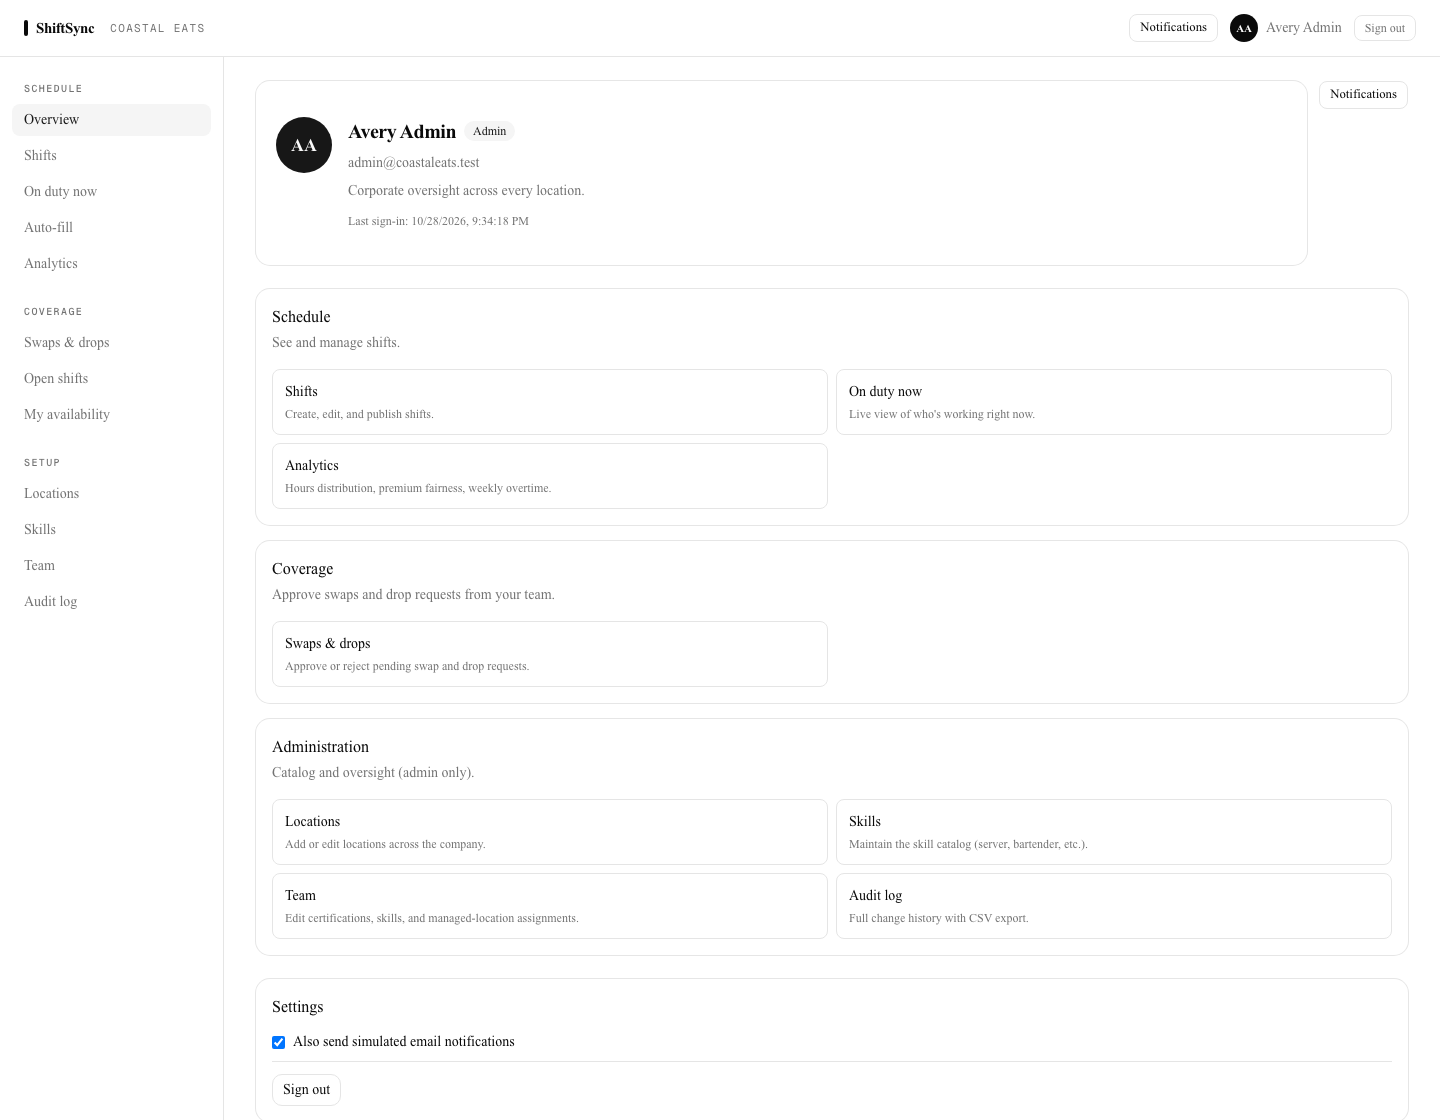
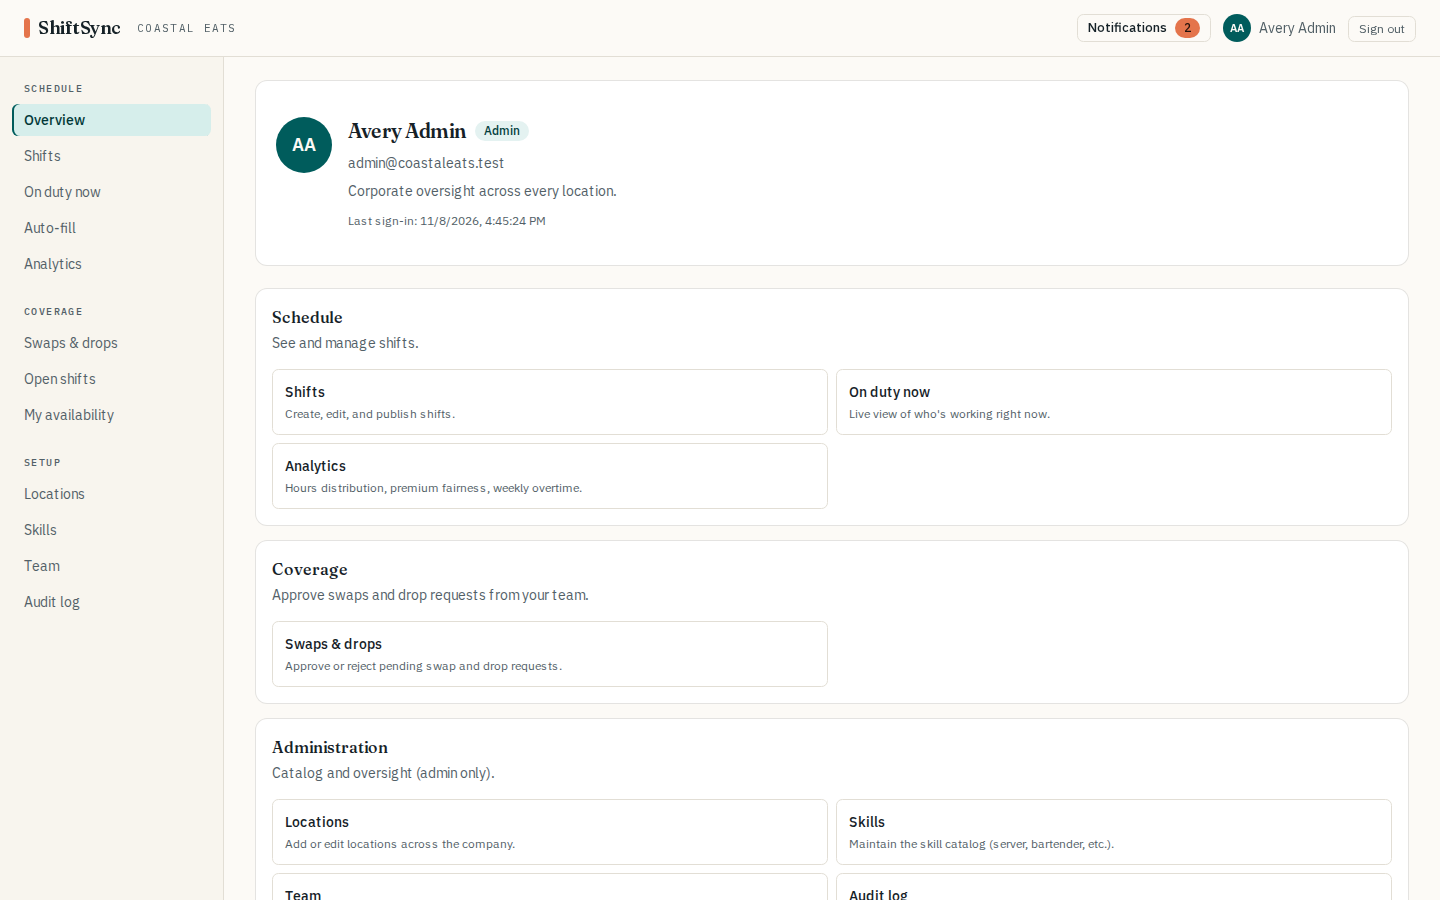
Rewrite the README around the mock API and refresh screenshots
- Documents the offline path (npm run mock-api + dev server), the
  container build, and the unit and browser test commands with counts.
- Drops claims that no longer held: "No end-to-end tests" beside an
  e2e section, and React Hook Form, which the app never used.
- Notes the ?next= guard, phone navigation and location-timezone
  display among the design choices.
- All nine screenshots are recaptured from the mock's fictional data
  at 1440x900 and 390x844 by e2e/mocked/screenshots.spec.ts. The old
  set rendered in a fallback serif and ran to 880 KB.
- Adds `npm run mock-api`.

diff --git a/e2e/mocked/screenshots.spec.ts b/e2e/mocked/screenshots.spec.ts
@@ -1,0 +1,58 @@
+import { expect, test, type Page } from "@playwright/test";
+import { ADMIN, expectPath, signIn } from "./helpers";
+
+// Regenerates docs/screenshots from the mock API's fictional data.
+//   CAPTURE_SCREENSHOTS=1 npx playwright test screenshots
+test.skip(!process.env.CAPTURE_SCREENSHOTS, "Set CAPTURE_SCREENSHOTS=1 to refresh docs/screenshots.");
+
+const DESKTOP = { width: 1440, height: 900 };
+const MOBILE = { width: 390, height: 844 };
+const shot = (name: string) => `docs/screenshots/${name}.png`;
+
+async function settle(page: Page) {
+  await page.waitForLoadState("networkidle");
+  await page.evaluate(() => document.fonts.ready);
+}
+
+test("desktop captures", async ({ page }) => {
+  await page.setViewportSize(DESKTOP);
+
+  await page.goto("/login");
+  await settle(page);
+  await page.screenshot({ path: shot("login") });
+
+  await signIn(page, ADMIN);
+  await expectPath(page, "/dashboard");
+  await settle(page);
+  await page.screenshot({ path: shot("dashboard") });
+
+  for (const [path, name, ready] of [
+    ["/shifts", "shifts", "Coastal Eats — Boston ·"],
+    ["/on-duty", "onduty", "Sarah Chen"],
+    ["/analytics", "analytics", "Omar Haddad"],
+    ["/team", "team", "Yuki Tanaka"],
+    ["/admin/audit", "audit", "override_grant"],
+  ] as const) {
+    await page.goto(path);
+    await expect(page.getByText(ready).first()).toBeVisible();
+    await settle(page);
+    await page.screenshot({ path: shot(name) });
+  }
+
+  await page.goto("/planner");
+  await page.getByRole("button", { name: "Build a plan" }).click();
+  await expect(page.getByRole("heading", { name: "Proposed assignments" })).toBeVisible();
+  await settle(page);
+  await page.screenshot({ path: shot("planner"), fullPage: true });
+});
+
+test("mobile planner", async ({ page }) => {
+  await page.setViewportSize(MOBILE);
+  await signIn(page, ADMIN);
+  await expectPath(page, "/dashboard");
+  await page.goto("/planner");
+  await page.getByRole("button", { name: "Build a plan" }).click();
+  await expect(page.getByRole("heading", { name: "Proposed assignments" })).toBeVisible();
+  await settle(page);
+  await page.screenshot({ path: shot("planner-mobile"), fullPage: true });
+});

diff --git a/README.md b/README.md
@@ -1,41 +1,70 @@
 # ShiftSync — Web
 
 Next.js front end for **ShiftSync**, a staff-scheduling tool for a restaurant
-group with four sites across two timezones.
+group with four sites across two timezones. Managers publish shifts and fill
+them; staff set availability and trade shifts; everyone sees who is on duty
+right now.
 
-API: `staff-roster-api` (separate repository)
+The API lives in a separate repository, `staff-roster-api`. This repository
+also ships a small mock of it (`e2e/mock-api`), so the app can be run, tested
+and screenshotted without the API or a database.
 
-![The schedule overview](docs/screenshots/dashboard.png)
+![The overview for an admin](docs/screenshots/dashboard.png)
 
 ---
 
 ## Run it
 
-Both repositories must be cloned as siblings. From `staff-roster-api`:
+### With the real API
+
+Clone both repositories as siblings. From `staff-roster-api`:
 
 ```bash
 docker compose up --build
 ```
 
-Then open **http://localhost:3200** and sign in with a seeded account:
+Then open **http://localhost:3200** and sign in with a seeded account. The
+password is the `SEED_PASSWORD` set in the API's `.env`:
 
-| Role | Email | Password |
-|---|---|---|
-| Admin | `admin@coastaleats.test` | `<SEED_PASSWORD>` |
-| Manager | `east-manager@coastaleats.test` | `<SEED_PASSWORD>` |
-| Staff | `sarah@coastaleats.test` | `<SEED_PASSWORD>` |
+| Role | Email |
+|---|---|
+| Admin | `admin@coastaleats.test` |
+| Manager | `east-manager@coastaleats.test` |
+| Staff | `sarah@coastaleats.test` |
 
-No credentials to obtain — see the API's README for how identity resolves.
+See the API's README for how identity resolves.
 
-<details>
-<summary>Running this app on its own</summary>
+### On its own, against the mock API
+
+Needs Node 22 (`.nvmrc`).
 
 ```bash
 npm ci
-cp .env.example .env      # point NEXT_PUBLIC_BACKEND_ENDPOINT at a running API
-npm run dev               # :3000
+npm run mock-api          # terminal 1: fake API on :4010
+NEXT_PUBLIC_BACKEND_ENDPOINT=http://127.0.0.1:4010/api npm run dev   # terminal 2
 ```
-</details>
+
+Open http://localhost:3000 and sign in as any address from the table above
+with any password. The mock serves fictional Coastal Eats data built around the
+current time, so "On duty now" and this week's analytics always have
+something in them. Writes such as publishing a shift change in-memory state
+only.
+
+To point the app at a real API instead, copy `.env.example` to `.env` and set
+`NEXT_PUBLIC_BACKEND_ENDPOINT`.
+
+### As a container
+
+```bash
+docker build --build-arg NEXT_PUBLIC_BACKEND_ENDPOINT=http://localhost:4000/api -t shiftsync-web .
+docker run -p 3000:3000 -e API_BASE_URL_INTERNAL=http://host.docker.internal:4000/api shiftsync-web
+```
+
+`API_BASE_URL_INTERNAL` is how the container's server reaches the API; the
+browser keeps using the URL baked in at build time.
+
+The image is a standalone Next.js server (about 340 MB) running as a non-root
+user, with a health check on `/`.
 
 ---
 
@@ -45,10 +74,10 @@ npm run dev               # :3000
 
 ![Auto-fill](docs/screenshots/planner.png)
 
-Every proposed assignment carries the sentence that justifies it — *"had the
-fewest hours this week (0.0h) among 2 eligible staff"*, or *"was the only person
-who cleared every rule for this shift"*. Slots that stay open list why, broken
-down by how many staff each reason blocked.
+Every proposed assignment carries the sentence that justifies it, such as *"had the
+fewest hours this week (12.0h) among 3 eligible staff"* or *"was the only
+person who cleared every rule for this shift"*. Slots that stay open list why,
+broken down by how many staff each reason blocked.
 
 The summary is badged **computed** or **written by model** so a reader always
 knows which they are looking at. Nothing is saved until the manager assigns it.
@@ -59,7 +88,7 @@ knows which they are looking at. Nothing is saved until the manager assigns it.
 
 Hours and premium-shift distribution side by side, because "everyone works the
 same hours" and "everyone takes a turn on Saturday night" are different
-questions and a roster can pass one while failing the other.
+questions, and a roster can pass one while failing the other.
 
 ---
 
@@ -80,7 +109,7 @@ flowchart TB
     AUTH{{isSupabaseConfigured?}}
     SB[(Supabase Auth)]
     COOKIE[(httpOnly cookie)]
-    API[(ShiftSync API)]
+    API[(ShiftSync API<br/>or e2e/mock-api)]
 
     PROXY --> AUTH
     SESS --> AUTH
@@ -93,7 +122,7 @@ flowchart TB
 ### Authentication has one seam
 
 `isSupabaseConfigured()` is the only place that asks which mode is running.
-Everything else — pages, the route proxy, the API clients — goes through
+Everything else (pages, the route proxy, the API clients) goes through
 `getSessionUser()` and `getAccessToken()` and never knows the difference.
 
 Self-hosted, the token lives in an **httpOnly** cookie so an injected script
@@ -102,32 +131,77 @@ same-origin route which returns it, cached briefly to avoid a round trip per
 request.
 
 Route protection in `proxy.ts` only decides *which page to show*. It is not
-authorisation — every request the page makes is verified again by the API,
-which holds the signing key.
+authorisation: every request the page makes is verified again by the API,
+which holds the signing key. The `?next=` return path is only followed when it
+is a path on this site (`shared/redirect.ts`), so a crafted sign-in link
+cannot bounce someone to another origin.
 
 ### One shell, role-aware navigation
 
 Every signed-in route lives under the `(app)` route group and shares one layout
 that fetches the profile once and hides navigation the current role cannot use.
+On wide screens the navigation is a grouped sidebar; on phones it collapses to
+one scrollable row so the page itself starts near the top.
 
-Each page used to end in a "Back to dashboard" link, so moving between sections
-meant a round trip through the overview. A standing sidebar turns that into one
-click and makes the whole product visible at once.
+![The planner on a phone](docs/screenshots/planner-mobile.png)
 
 ### Live updates degrade rather than break
 
 `useTableChannel` subscribes to Postgres changes through Supabase Realtime when
 it is configured. Without it, the same callback is driven on a 15-second
-interval instead — consumers refetch either way, so no component knows which is
+interval instead. Consumers refetch either way, so no component knows which is
 running. Polling is worse latency, not worse correctness.
+
+### Times belong to the location
+
+Shift times are stored in UTC and always shown in the timezone of the site
+they belong to, so a Brooklyn manager reading a Santa Monica shift sees
+Pacific time, labelled as such. `lib/time/format.ts` holds the two
+conversions, and they are unit-tested across daylight saving.
+
+---
+
+## Tests
+
+```bash
+npm test             # Vitest: 22 unit tests, no network
+npm run typecheck
+npm run lint
+```
+
+Browser tests run against the mock API, which Playwright starts alongside
+`next start`. The API URL is baked into the bundle, so build for the mock
+first:
+
+```bash
+NEXT_PUBLIC_BACKEND_ENDPOINT=http://127.0.0.1:4010/api npm run build
+npx playwright install chromium   # once
+npm run test:e2e     # 9 specs: sign-in, ?next= guard, role gates, nav, filters
+```
+
+They cover signing in and out, the off-site `?next=` guard, the planner's role
+gate, navigation highlighting, the shift location filter and the on-duty view.
+`CAPTURE_SCREENSHOTS=1 npx playwright test screenshots` regenerates the
+images in `docs/screenshots/` at 1440×900 and 390×844.
+
+To run the original browser checks against a real seeded API instead, use a
+disposable database:
+
+```bash
+E2E_BASE_URL=http://localhost:3200 E2E_PASSWORD='<your SEED_PASSWORD>' npm run test:e2e
+```
 
 ---
 
 ## Stack
 
 Next.js 16 (App Router, Turbopack) · React 19 · TypeScript (strict) ·
-Tailwind v4 · shadcn/ui on Base UI · TanStack Query v5 · React Hook Form + Zod ·
-`date-fns-tz` · Supabase Auth (optional)
+Tailwind v4 · shadcn/ui on Base UI · TanStack Query v5 · Zod · `date-fns-tz` ·
+Supabase Auth (optional) · Vitest · Playwright
+
+Type is IBM Plex Sans and Plex Mono for the working UI, with Fraunces for
+page titles. The palette pairs sea-glass teal for actions with coral for the
+things that need attention.
 
 ## Configuration
 
@@ -139,7 +213,7 @@ Tailwind v4 · shadcn/ui on Base UI · TanStack Query v5 · React Hook Form + Zo
 
 That first pair being different is not incidental: a single URL cannot serve
 both, and getting it wrong produces a login that fails only inside the
-container.
+container. An empty `API_BASE_URL_INTERNAL` is treated as unset.
 
 ## Known limitations
 
@@ -149,18 +223,10 @@ container.
 - **The shifts list is a flat list.** For a real week a manager wants a grid by
   day and location; the current view stays readable at ten shifts and would not
   at a hundred.
-- **No end-to-end tests.** The API is well covered; this app is verified by
-  hand and by the Playwright pass used to produce the screenshots above.
+- **The mock API is shallow.** It answers every route the app calls, but
+  assignment, swap and availability writes are not modelled. Those flows are
+  covered by the API's own tests, not by this repository's.
 
-## Browser regressions
+## License
 
-With the seeded API and this web app running, run:
-
-```bash
-E2E_BASE_URL=http://localhost:3200 E2E_PASSWORD='<your SEED_PASSWORD>' npm run test:e2e
-```
-
-The tests sign in as admin and staff, compute a roster proposal, and verify the staff
-account cannot enter the manager planner. Use a disposable seed database. Desktop and
-[mobile planner](docs/screenshots/planner-mobile.png) captures were taken from the native
-app; the planner explanation in these captures is computed locally.
+MIT. See [LICENSE](LICENSE).
